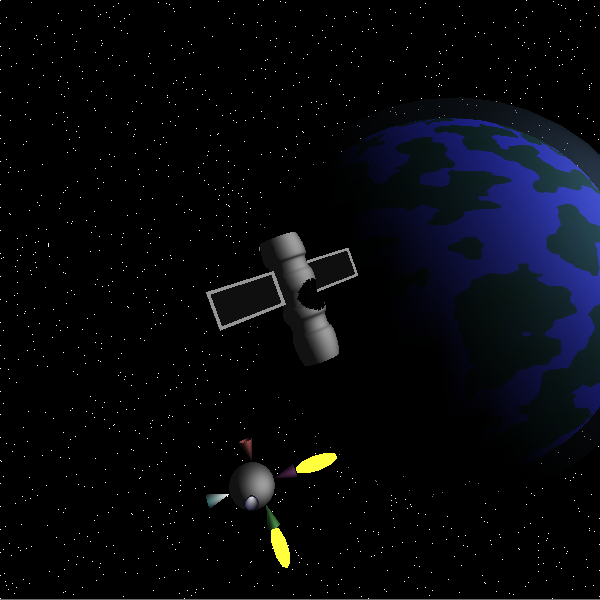
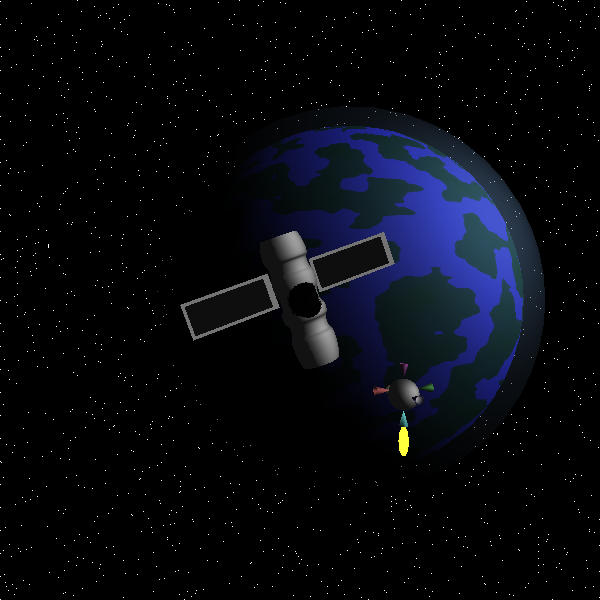
higher quality, new screenshot

diff --git a/Source.cpp b/Source.cpp
@@ -1292,7 +1292,7 @@ public:
     }
 
     void generate() {
-        rotatedSpline.generate(100, 100);
+        rotatedSpline.generate(240, 100);
         solarPanel1.generate();
         solarPanel2.generate();
     }
